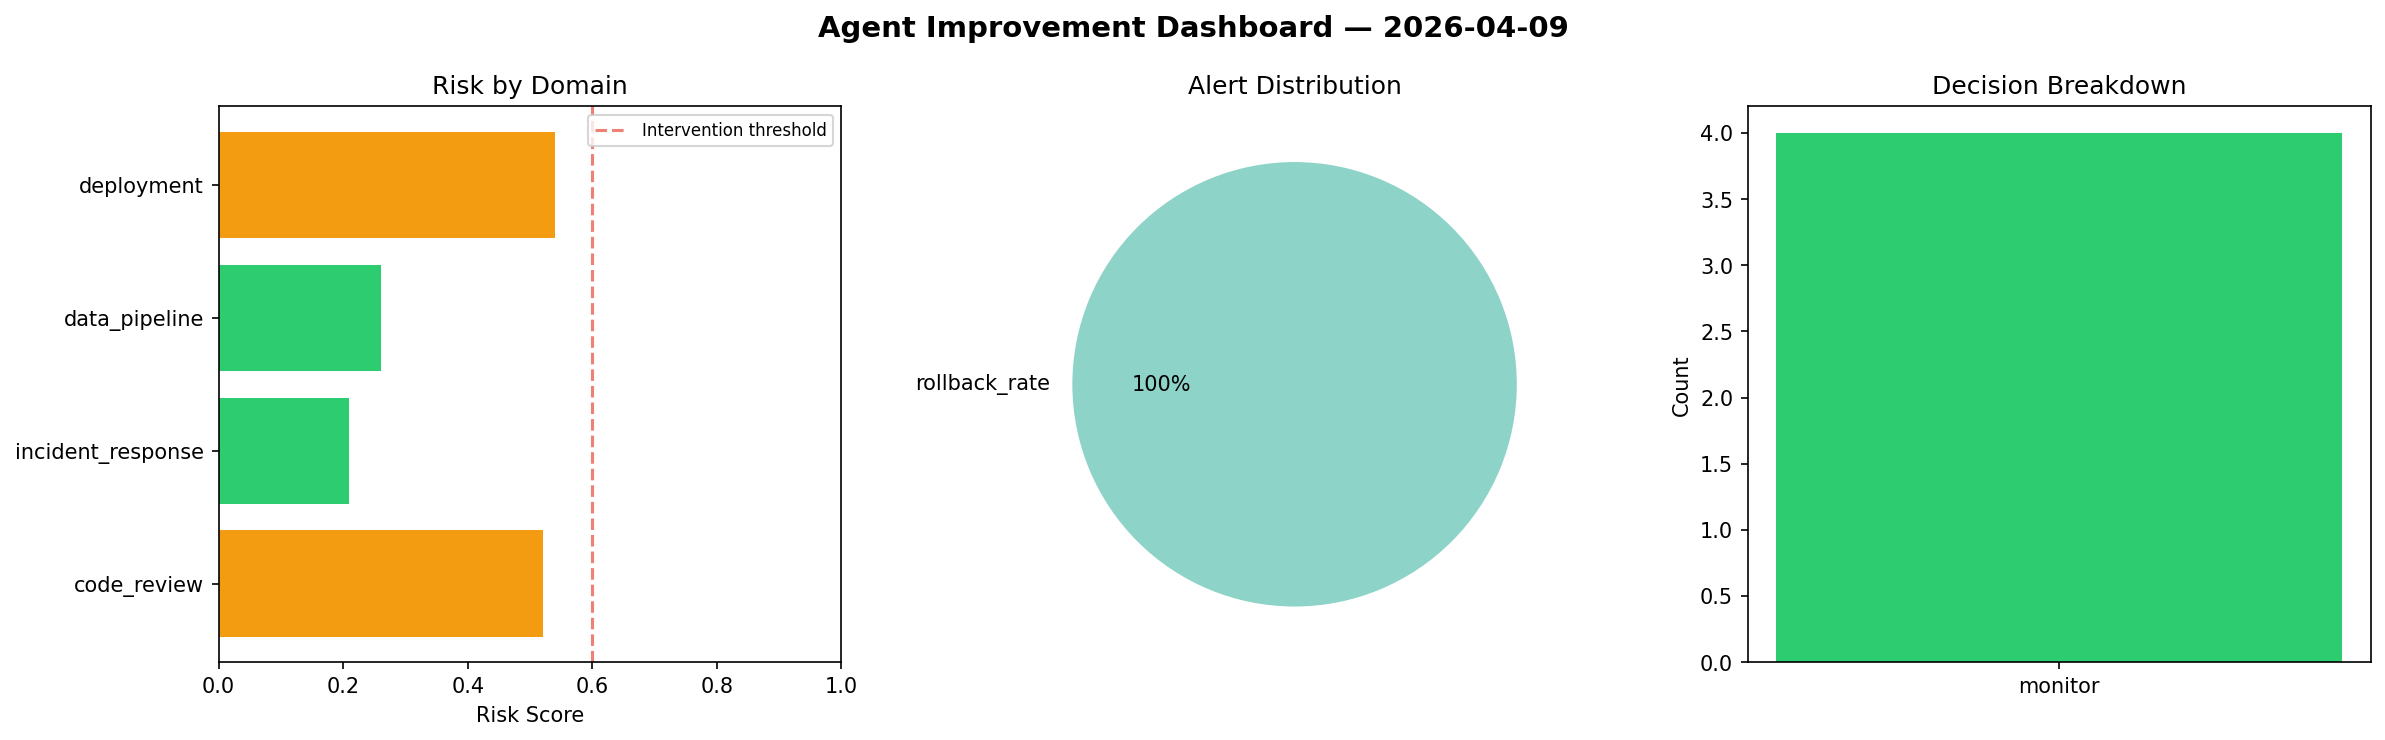
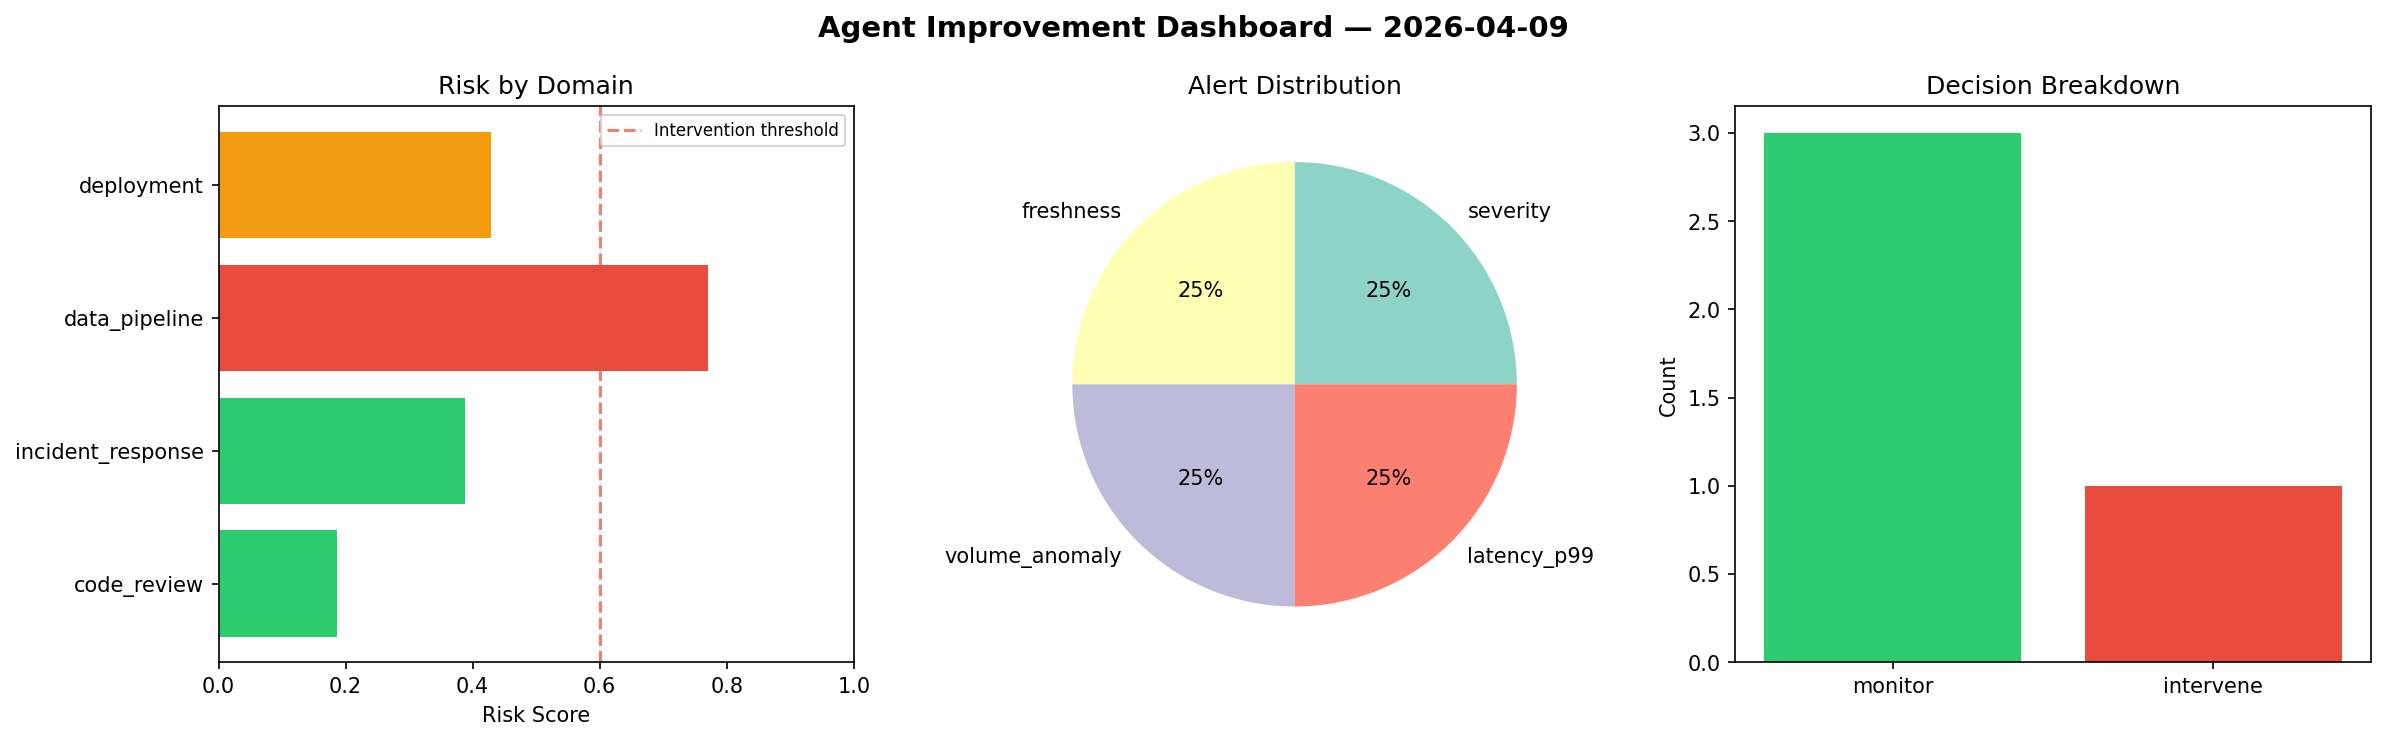
agent-improvement: daily cycle 2026-04-09T09:40

diff --git a/logs/2026-04-09.md b/logs/2026-04-09.md
@@ -1,6 +1,6 @@
 # Agent Improvement Report — 2026-04-09
 
-**Cycle ID:** `0baa8e52` | **Avg Risk:** 0.3824 | **Interventions:** 0/4
+**Cycle ID:** `7c0167f5` | **Avg Risk:** 0.443 | **Interventions:** 1/4
 
 ![Dashboard](2026-04-09_dashboard.png)
 
@@ -10,18 +10,18 @@
 
 | Domain | Risk Score | Decision | Alerts |
 |--------|-----------|----------|--------|
-| code_review | 0.5202 | monitor | none |
-| incident_response | 0.2092 | monitor | none |
-| data_pipeline | 0.2603 | monitor | none |
-| deployment | 0.5398 | monitor | rollback_rate |
+| code_review | 0.1857 | monitor | none |
+| incident_response | 0.3878 | monitor | severity |
+| data_pipeline | 0.7703 | intervene | freshness, volume_anomaly |
+| deployment | 0.4281 | monitor | latency_p99 |
 
 ## Delta vs Yesterday
 
 | Domain | Today | Yesterday | Change |
 |--------|-------|-----------|--------|
-| code_review | 0.5202 | 0.5131 | 📈 1.4% |
-| incident_response | 0.2092 | 0.7135 | 📉 -70.7% |
-| data_pipeline | 0.2603 | 0.776 | 📉 -66.5% |
-| deployment | 0.5398 | 0.3908 | 📈 38.1% |
+| code_review | 0.1857 | 0.5131 | 📉 -63.8% |
+| incident_response | 0.3878 | 0.7135 | 📉 -45.6% |
+| data_pipeline | 0.7703 | 0.776 | 📉 -0.7% |
+| deployment | 0.4281 | 0.3908 | 📈 9.5% |
 
 **Refinement:** `{'adjustment': 'tighten_thresholds', 'trend': 'degrading', 'window': 4}`
